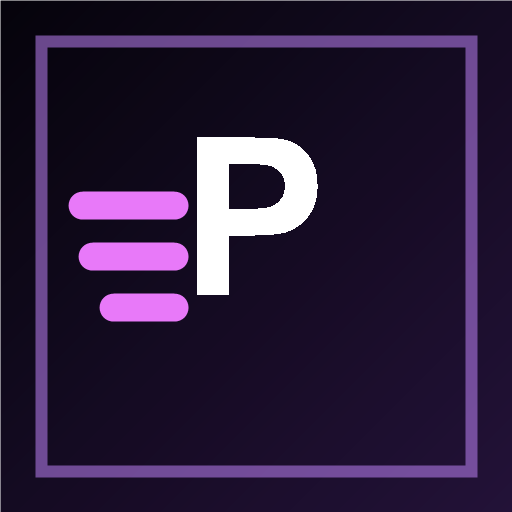
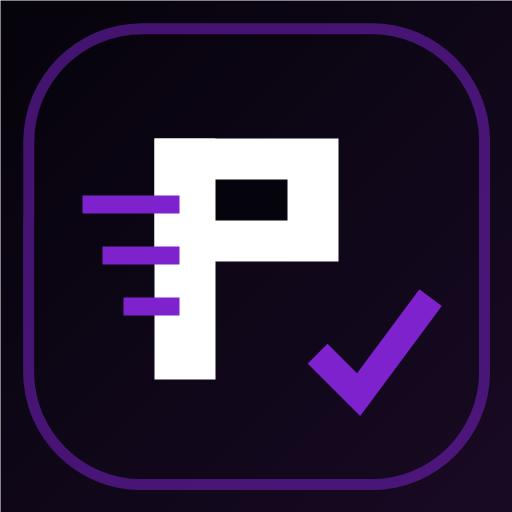
Apply acai premium color system

Changed region(s): [[0.0312, 0.0312, 0.9688, 0.9688], [0.125, 0.25, 0.6875, 0.75], [0.5938, 0.5625, 0.875, 0.8125]]

diff --git a/lib/main.dart b/lib/main.dart
@@ -1,4 +1,4 @@
-import 'dart:async';
+import 'dart:async';
 import 'dart:convert';
 import 'dart:math' as math;
 import 'dart:typed_data';
@@ -1614,23 +1614,23 @@ Future<void> showAccountDeletionInfoDialog(BuildContext context) async {
 
 class AppColors {
   static const primary = Color(0xFF080613);
-  static const secondary = Color(0xFFC084FC);
-  static const accent = Color(0xFFE879F9);
+  static const secondary = Color(0xFF7E22CE);
+  static const accent = Color(0xFF4C1D95);
   static const success = Color(0xFF22C55E);
-  static const warning = Color(0xFFF59E0B);
+  static const warning = Color(0xFF8B5CF6);
   static const danger = Color(0xFFE5484D);
   static const textStrong = Color(0xFFFFFFFF);
   static const textBody = Color(0xFFE5E7EB);
   static const textMuted = Color(0xFFB8B2C7);
-  static const border = Color(0xFF3B2A55);
-  static const borderSoft = Color(0xFF2A1F3D);
-  static const surface = Color(0xFF171222);
+  static const border = Color(0xFF2F2147);
+  static const borderSoft = Color(0xFF241932);
+  static const surface = Color(0xFF120C1D);
   static const surfaceSoft = Color(0xFF100B18);
-  static const surfaceTint = Color(0xFF241336);
+  static const surfaceTint = Color(0xFF211033);
   static const background = Color(0xFF05030B);
   static const backgroundTop = Color(0xFF080613);
   static const backgroundMid = Color(0xFF05030B);
-  static const backgroundBottom = Color(0xFF130A1F);
+  static const backgroundBottom = Color(0xFF180A24);
 }
 
 class AppRadii {
@@ -2226,21 +2226,21 @@ extension AppAccentPresetExtension on AppAccentPreset {
     AppAccentPreset.cobreja => 'Peguei & Paguei',
     AppAccentPreset.esmeralda => 'Esmeralda',
     AppAccentPreset.oceano => 'Oceano',
-    AppAccentPreset.sunset => 'Sunset',
+    AppAccentPreset.sunset => 'Açaí',
   };
 
   Color get primaryColor => switch (this) {
     AppAccentPreset.cobreja => AppColors.secondary,
     AppAccentPreset.esmeralda => const Color(0xFF059669),
     AppAccentPreset.oceano => const Color(0xFF0284C7),
-    AppAccentPreset.sunset => const Color(0xFFEA580C),
+    AppAccentPreset.sunset => const Color(0xFF5B21B6),
   };
 
   Color get secondaryColor => switch (this) {
     AppAccentPreset.cobreja => AppColors.accent,
     AppAccentPreset.esmeralda => const Color(0xFF10B981),
     AppAccentPreset.oceano => const Color(0xFF06B6D4),
-    AppAccentPreset.sunset => const Color(0xFFF59E0B),
+    AppAccentPreset.sunset => const Color(0xFF7E22CE),
   };
 }
 
@@ -2598,7 +2598,7 @@ class FinanceService {
             title: '${client.name} vence hoje',
             subtitle: 'Cobrar ${_currency(debt.totalDebt)} ainda hoje',
             client: client,
-            color: const Color(0xFFF59E0B),
+            color: AppColors.warning,
           ),
         );
       } else if (client.dueDate.difference(DateTime.now()).inDays == 1) {
@@ -4306,7 +4306,7 @@ Future<bool> login(String identifier, String password) async {
             gradient: const LinearGradient(
               begin: Alignment.topLeft,
               end: Alignment.bottomRight,
-              colors: [Color(0xFF080613), Color(0xFFA855F7), Color(0xFFE879F9)],
+              colors: [Color(0xFF05030B), Color(0xFF2E1065), Color(0xFF5B21B6)],
             ),
           ),
           child: Padding(
@@ -4407,7 +4407,7 @@ Future<bool> login(String identifier, String password) async {
           gradient: LinearGradient(
             begin: Alignment.topLeft,
             end: Alignment.bottomRight,
-            colors: [Color(0xFF05030B), Color(0xFF100B18), Color(0xFF1A0F2E)],
+            colors: [Color(0xFF020106), Color(0xFF0B0611), Color(0xFF1A0B2E)],
           ),
         ),
         child: SafeArea(
@@ -4455,7 +4455,7 @@ Future<bool> login(String identifier, String password) async {
         gradient: LinearGradient(
           begin: Alignment.topLeft,
           end: Alignment.bottomRight,
-          colors: [Color(0xFF080613), Color(0xFFA855F7), Color(0xFFE879F9)],
+          colors: [Color(0xFF05030B), Color(0xFF2E1065), Color(0xFF5B21B6)],
         ),
         borderRadius: BorderRadius.horizontal(left: Radius.circular(36)),
       ),
@@ -4579,7 +4579,7 @@ Future<bool> login(String identifier, String password) async {
                               padding: EdgeInsets.all(9),
                               child: Icon(
                                 Icons.info_outline_rounded,
-                                color: Color(0xFFC084FC),
+                                color: Color(0xFF8B5CF6),
                                 size: 20,
                               ),
                             ),
@@ -4611,7 +4611,7 @@ Future<bool> login(String identifier, String password) async {
                   padding: const EdgeInsets.all(8),
                   decoration: BoxDecoration(
                     gradient: const LinearGradient(
-                      colors: [Color(0xFF080613), Color(0xFFA855F7), Color(0xFFE879F9)],
+                      colors: [Color(0xFF05030B), Color(0xFF2E1065), Color(0xFF5B21B6)],
                     ),
                     borderRadius: BorderRadius.circular(16),
                   ),
@@ -5690,7 +5690,7 @@ class _SuperAdminBadge extends StatelessWidget {
       padding: const EdgeInsets.symmetric(horizontal: 12, vertical: 9),
       decoration: BoxDecoration(
         gradient: const LinearGradient(
-          colors: [Color(0xFFC084FC), Color(0xFFE879F9)],
+          colors: [Color(0xFF4C1D95), Color(0xFF7E22CE)],
         ),
         borderRadius: BorderRadius.circular(999),
         boxShadow: [
@@ -6199,7 +6199,7 @@ class _SuperAdminHeader extends StatelessWidget {
           width: 54,
           decoration: BoxDecoration(
             gradient: const LinearGradient(
-              colors: [Color(0xFFC084FC), Color(0xFFE879F9)],
+              colors: [Color(0xFF4C1D95), Color(0xFF7E22CE)],
             ),
             borderRadius: BorderRadius.circular(18),
             boxShadow: [
@@ -7425,7 +7425,7 @@ class _ClientProfileTab extends StatelessWidget {
         case 'REJECTED':
           return const Color(0xFFDC2626);
         default:
-          return const Color(0xFFF59E0B);
+          return AppColors.warning;
       }
     }
 
@@ -15073,7 +15073,7 @@ class _MainNavigationPageState extends State<MainNavigationPage> {
     );
     return _buildGlobalPaymentHistoryPage(
       entries: entries,
-      accentColor: const Color(0xFFF59E0B),
+      accentColor: AppColors.warning,
       heroTitle: 'Renovações com juros pagos',
       heroSubtitle:
           'Cada vez que um cliente paga só os juros, o lançamento fica salvo aqui para consulta futura.',
@@ -15094,7 +15094,7 @@ class _MainNavigationPageState extends State<MainNavigationPage> {
       },
       badgeBuilder: (entry) => _StatusPill(
         text: 'Juros pago',
-        color: const Color(0xFFF59E0B),
+        color: AppColors.warning,
       ),
     );
   }
@@ -15175,7 +15175,7 @@ class _MainNavigationPageState extends State<MainNavigationPage> {
         case 'REJECTED':
           return const Color(0xFFDC2626);
         default:
-          return const Color(0xFFF59E0B);
+          return AppColors.warning;
       }
     }
 
@@ -17024,7 +17024,7 @@ class _MainNavigationPageState extends State<MainNavigationPage> {
                 'Juros do ciclo ${_currency(debt.cycleInterest)} + diaria em atraso ${_currency(debt.lateInterest)}. Periodo $_currentMonthRangeLabel.',
             value: value,
             icon: Icons.percent_rounded,
-            color: debt.isOverdue ? AppColors.danger : const Color(0xFFF59E0B),
+            color: debt.isOverdue ? AppColors.danger : AppColors.warning,
           ));
         }
       case _MetricCardKind.totalProfit:
@@ -17246,7 +17246,7 @@ class _MainNavigationPageState extends State<MainNavigationPage> {
         title: 'Juros do mes',
         value: _currency(monthlyInterestReceivable),
         subtitle: '01 ao ultimo dia + diaria',
-        color: const Color(0xFFF59E0B),
+        color: AppColors.warning,
         icon: Icons.percent_rounded,
         kind: _MetricCardKind.monthlyInterestReceivable,
       ),
@@ -17387,7 +17387,7 @@ class _MainNavigationPageState extends State<MainNavigationPage> {
             gradient: LinearGradient(
               colors: isDark
                   ? const [Color(0xFF171222), Color(0xFF100B18)]
-                  : const [Color(0xFFFFF7ED), Color(0xFFFFFBEB)],
+                  : const [Color(0xFFF3E8FF), Color(0xFFEDE9FE)],
             ),
             border: Border.all(color: borderColor),
           ),
@@ -19481,7 +19481,7 @@ class _MainNavigationPageState extends State<MainNavigationPage> {
           _ActionChip(
             icon: Icons.currency_exchange_rounded,
             label: 'Pagou juros',
-            color: const Color(0xFFF59E0B),
+            color: AppColors.warning,
             onTap: () {
               Navigator.pop(context);
               _registerInterestSettlement(client);
@@ -23425,10 +23425,10 @@ class _MainNavigationPageState extends State<MainNavigationPage> {
           fallbackTitle: 'Tudo certo'
         ),
       _FeedbackTone.warning => (
-          background: const Color(0xFFFFFBEB),
-          border: const Color(0xFFFDE68A),
-          iconColor: const Color(0xFFB45309),
-          textColor: const Color(0xFF78350F),
+          background: const Color(0xFFF3E8FF),
+          border: const Color(0xFFC4B5FD),
+          iconColor: const Color(0xFF6D28D9),
+          textColor: const Color(0xFF2E1065),
           icon: Icons.error_outline_rounded,
           fallbackTitle: 'Atencao'
         ),
@@ -24473,16 +24473,16 @@ class _ProfileFilterChip extends StatelessWidget {
       child: Container(
         padding: const EdgeInsets.symmetric(horizontal: 14, vertical: 10),
         decoration: BoxDecoration(
-          color: selected ? const Color(0xFFFFF7ED) : Colors.white,
+          color: selected ? const Color(0xFFF3E8FF) : Colors.white,
           borderRadius: BorderRadius.circular(999),
           border: Border.all(
-            color: selected ? const Color(0xFFF97316) : AppColors.borderSoft,
+            color: selected ? AppColors.warning : AppColors.borderSoft,
           ),
         ),
         child: Text(
           label,
           style: TextStyle(
-            color: selected ? const Color(0xFFF97316) : const Color(0xFF111827),
+            color: selected ? AppColors.warning : const Color(0xFF111827),
             fontWeight: FontWeight.w800,
           ),
         ),
@@ -24639,7 +24639,7 @@ class _ClientCard extends StatelessWidget {
                           if (tabType == 'juros')
                             const _StatusPill(
                               text: 'Juros pago',
-                              color: Color(0xFFF59E0B),
+                              color: AppColors.warning,
                             ),
                           if (hasMultipleCycles)
                             _StatusPill(
@@ -24723,7 +24723,7 @@ class _ClientCard extends StatelessWidget {
                         overflow: TextOverflow.ellipsis,
                         style: TextStyle(
                           color: tabType == 'juros'
-                              ? const Color(0xFFF97316)
+                              ? AppColors.warning
                               : client.status == 'quitado'
                                   ? const Color(0xFF16A34A)
                                   : debt.isOverdue
